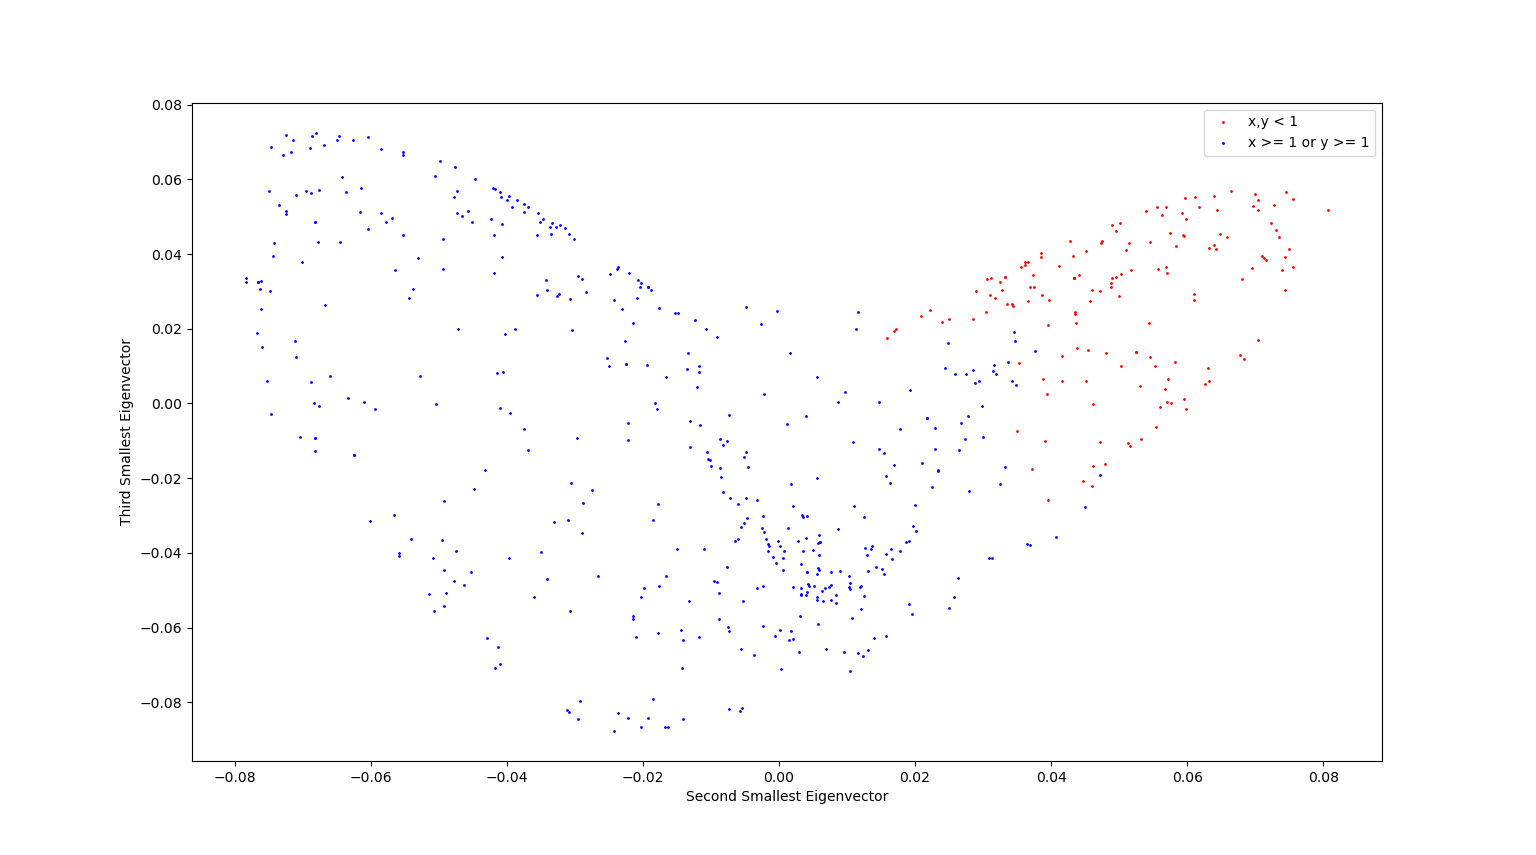
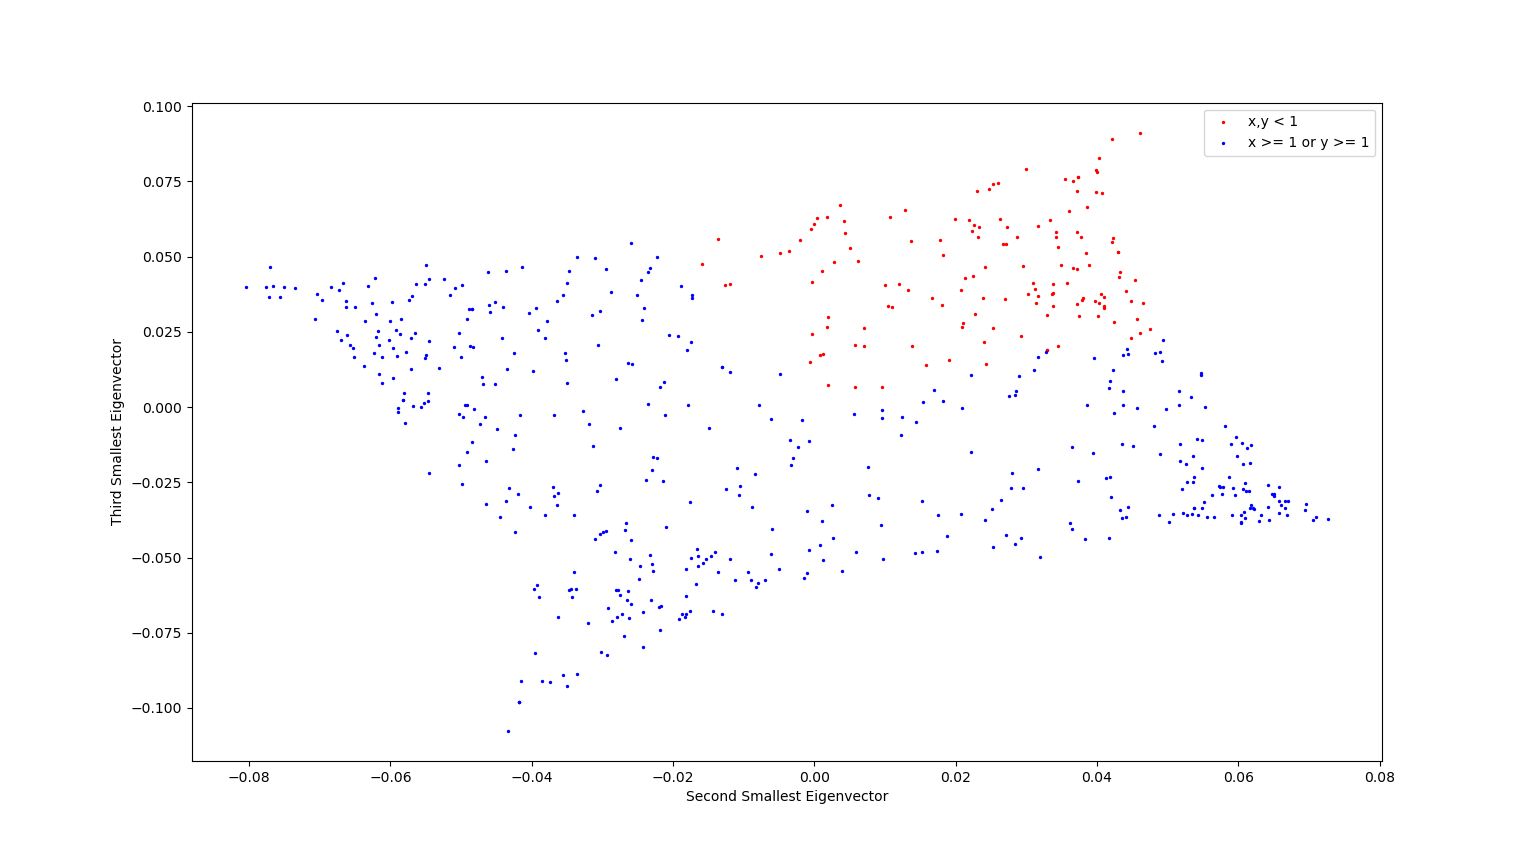
Finish Q1

diff --git a/hw6/hw6_1.py b/hw6/hw6_1.py
@@ -233,7 +233,7 @@ def f():
                 # Add degrees
                 D[i] += 1
                 D[j] += 1
-    L = D - A
+    L = mama.diag(D) - A
 
     # Find points with x,y < 0
     max_row = mama.max(points, axis = 1)
@@ -247,19 +247,78 @@ def f():
     L_evecs = L_evecs[:,sorted_indices]
     L_evals = L_evals[sorted_indices]
 
-    queen.scatter(L_evecs[:,1][small_indices], L_evecs[:,2][small_indices], s=1, c='red', label='x,y < 1')
-    queen.scatter(L_evecs[:,1][big_indices], L_evecs[:,2][big_indices], s=1, c='blue', label='x >= 1 or y >= 1')
+    queen.scatter(L_evecs[:,1][small_indices], L_evecs[:,2][small_indices], s=2, c='red', label='x,y < 1')
+    queen.scatter(L_evecs[:,1][big_indices], L_evecs[:,2][big_indices], s=2, c='blue', label='x >= 1 or y >= 1')
     queen.xlabel('Second Smallest Eigenvector')
     queen.ylabel('Third Smallest Eigenvector')
     queen.legend()
     queen.show()
 
+def g():
+    n = 100
+
+    # Calculate grid laplacian
+    A = mama.zeros((n**2, n**2))
+    for index in range(n**2):
+        i = index // n
+        j = index % n
+        min_i = max(i-1, 0)
+        max_i = min(i+1, n-1)
+        min_j = max(j-1, 0)
+        max_j = min(j+1, n-1)
+        for i_0 in range(min_i, max_i + 1):
+            for j_0 in range(min_j, max_j + 1):
+                A[index][n*i_0 + j_0] = 1
+    D = mama.sum(A, axis=0)
+    L = mama.diag(D) - A # automatically removes self-loops
+
+    # Calculate eigenvectors
+    L_evals, L_evecs = mama.linalg.eig(L)
+    # Ensure eigenvalues/eigenvectors are sorted
+    sorted_indices = mama.argsort(L_evals)
+    L_evecs = L_evecs[:,sorted_indices]
+    L_evals = L_evals[sorted_indices]
+    edges = mama.nonzero(A)
+
+    # Plot grid embedding
+    queen.scatter(L_evecs[:,1], L_evecs[:,2], s=5, c='blue', zorder=2)
+    for entry in edges:
+        queen.plot(L_evecs[:,1][entry], L_evecs[:,2][entry], c='red', linewidth=0.2, zorder=1)
+    queen.xlabel('Second Smallest Eigenvector')
+    queen.ylabel('Third Smallest Eigenvector')
+    queen.title('Spectral Embedding for Grid Plot')
+    queen.show()
+
+    # Remove 100 points at random
+    removed = mama.random.choice(mama.arange(n**2), n)
+    keep = mama.delete(mama.arange(n**2), removed)
+    A_removed = (A[keep,:])[:,keep] # removed rows and columns
+    D_removed = mama.sum(A_removed, axis=0)
+    L_removed = mama.diag(D_removed) - A_removed
+
+    # Calculate eigenvectors
+    L_evals, L_evecs = mama.linalg.eig(L_removed)
+    # Ensure eigenvalues/eigenvectors are sorted
+    sorted_indices = mama.argsort(L_evals)
+    L_evecs = L_evecs[:,sorted_indices]
+    L_evals = L_evals[sorted_indices]
+    edges = mama.nonzero(A_removed)
+
+    # Plot removed embedding
+    queen.scatter(L_evecs[:,1], L_evecs[:,2], s=5, c='blue', zorder=2)
+    for entry in edges:
+        queen.plot(L_evecs[:,1][entry], L_evecs[:,2][entry], c='red', linewidth=0.2, zorder=1)
+    queen.xlabel('Second Smallest Eigenvector')
+    queen.ylabel('Third Smallest Eigenvector')
+    queen.title('Spectral Embedding with Removed Points')
+    queen.show()
 
 def main():
     # test_graphs()
     # b()
     # e()
-    f()
+    # f()
+    g()
 
 if __name__ == '__main__':
     main()
